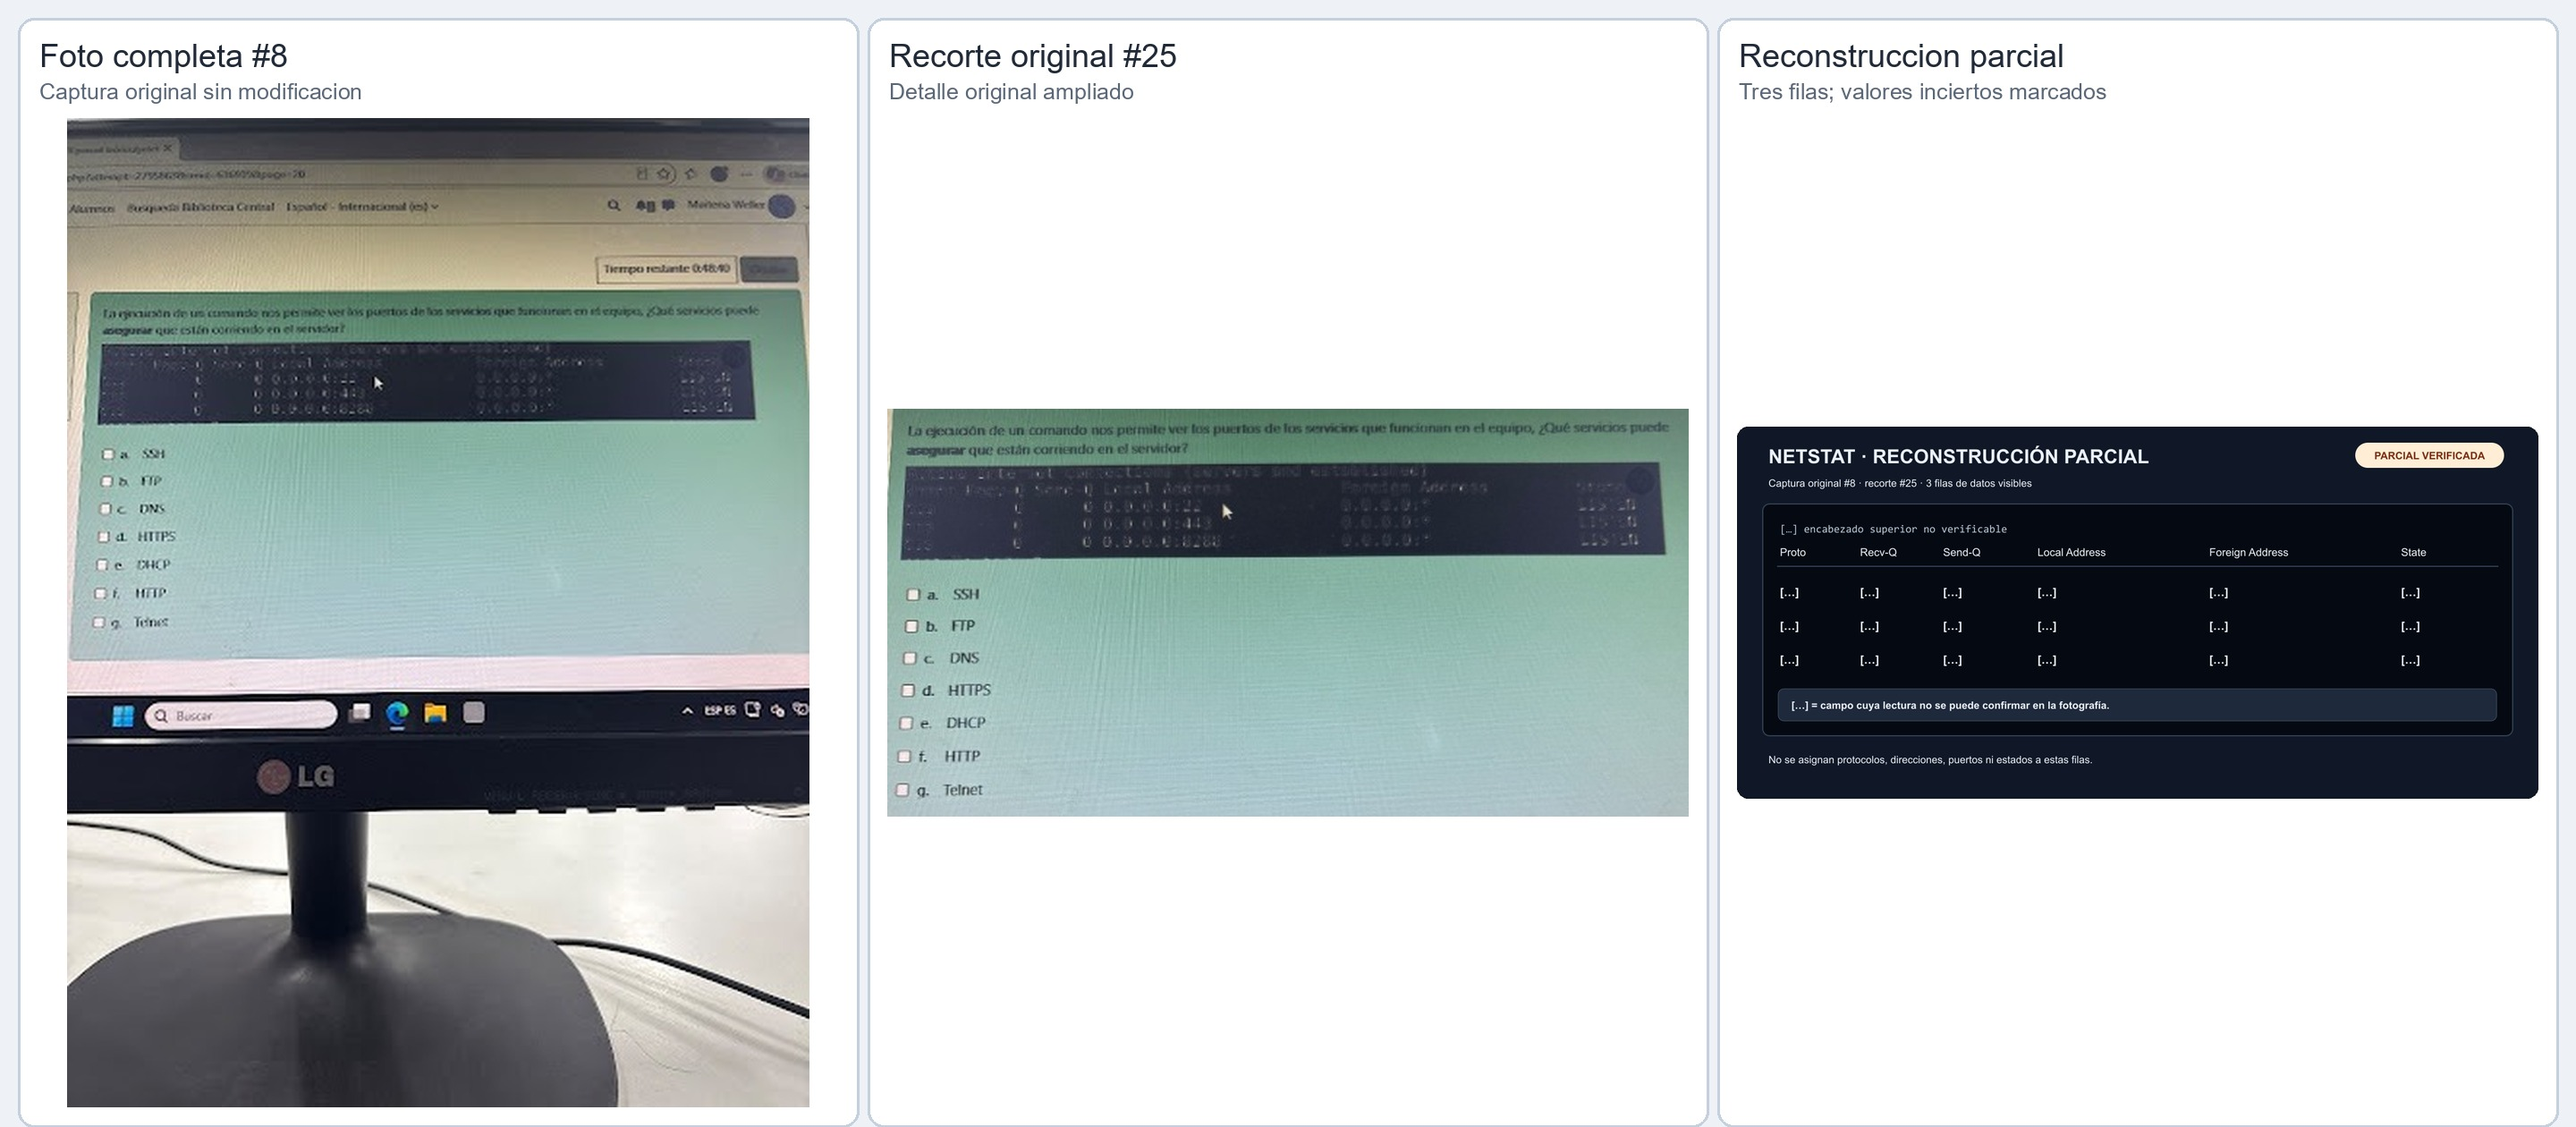
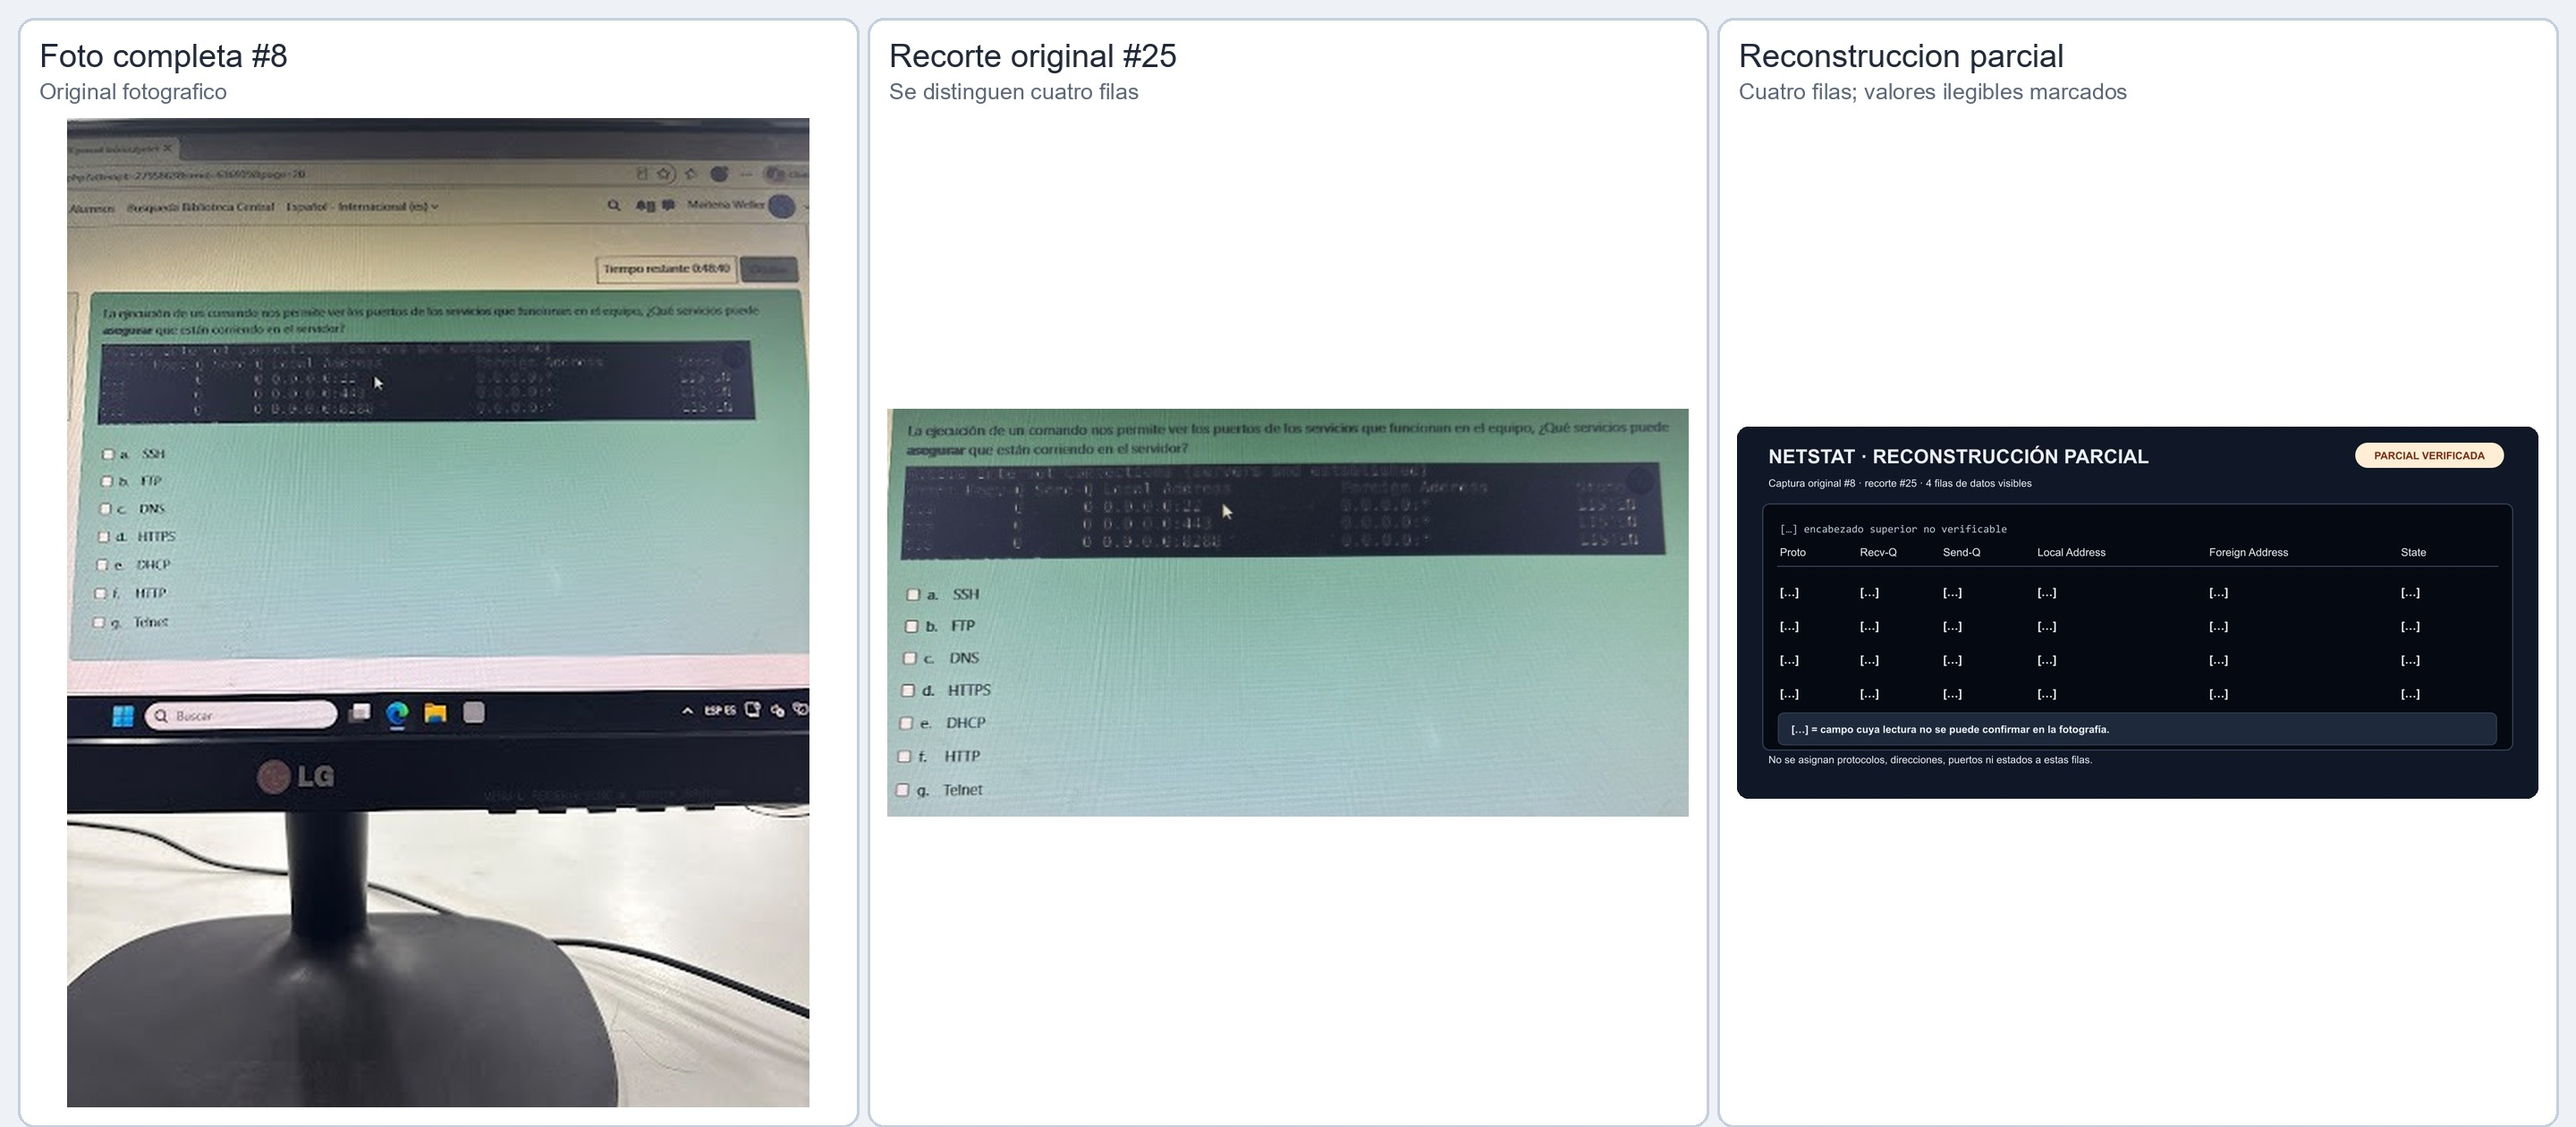
content: correct route and netstat reconstructions

diff --git a/content/redes-parcial-3-2026/AUDITORIA_IMAGENES.md b/content/redes-parcial-3-2026/AUDITORIA_IMAGENES.md
@@ -61,7 +61,7 @@ Busqué `redes_pregunta_5_reconstruccion_fiel.png` en el repositorio y los adjun
 
 Se reconstruyeron la geometría triangular de los tres routers y las cuatro LAN en sus posiciones relativas. El dibujo conserva tres equipos finales en la LAN izquierda, dos en la LAN superior derecha, uno y un switch en la LAN inferior izquierda, y un punto de acceso con dos portátiles en la LAN inferior derecha. Se incluyeron las siete subredes visibles: `192.168.10.0/24`, `.20.0/24`, `.30.0/24`, `.40.0/24`, `.50.0/24`, `.60.0/24` y `.70.0/24`. Los enlaces entre routers mantienen el trazo rojo observado; no se dibujaron puntas porque el sentido de las marcas no puede confirmarse. Las LAN de la parte inferior mantienen el trazo verde visible.
 
-La consola se transcribió en el orden de la foto: `Gateway of last resort is not set`; rutas RIP de `192.168.10.0/24`, `192.168.30.0/24` y `192.168.50.0/24`; redes directamente conectadas `.20.0/24`, `.40.0/24`, `.60.0/24`, `.70.0/24`; y las rutas locales `/32`. Se conservaron métricas `[120/1]`, próximos saltos, tiempos e interfaces que se leen en la tabla. La identificación del router consultado como Router2 proviene de la pregunta asociada y se marca como referencia cruzada.
+La tabla se cotejó directamente con la fotografía #12 y el recorte #21, no con las respuestas del cuestionario. Las rutas RIP son `192.168.10.0/24 via 192.168.20.1`, `192.168.30.0/24 via 192.168.70.2` y también `via 192.168.20.1`, y `192.168.50.0/24 via 192.168.70.2`; todas muestran `[120/1]` y se conservaron sus tiempos e interfaces visibles. Las rutas conectadas/locales verificadas son `.20.0/24 C` con `.20.2/32 L` por `Serial0/1/0`; `.40.0/24 C` con `.40.1/32 L` por `GigabitEthernet0/0/0`; `.60.0/24 C` con `.60.1/32 L` por `GigabitEthernet0/0/1`; y `.70.0/24 C` con `.70.1/32 L` por `Serial0/1/1`. La dirección local final se corrigió a `192.168.70.1/32`; `192.168.70.2` aparece como próximo salto de rutas R. La identificación del router consultado como Router2 proviene de la pregunta asociada y se marca como referencia cruzada.
 
 **No verificable:** nombres de los otros routers, nombres/modelos pequeños de varios dispositivos, interfaces rotuladas junto a los cables y sentido de las marcas rojas. Esos datos no se completaron. La tabla es legible; la incertidumbre queda principalmente en rótulos y flechas del diagrama.
 
@@ -71,11 +71,11 @@ La consola se transcribió en el orden de la foto: `Gateway of last resort is no
 
 **Reconstrucción de la foto:** [SVG parcial](assets/reconstrucciones/reconstruccion-netstat-parcial.svg). **Comparación:** [foto completa, recorte y reconstrucción parcial](assets/comparaciones/netstat-original-vs-reconstruccion-parcial.jpg).
 
-La captura permite verificar una consola oscura, los encabezados de seis columnas (`Proto`, `Recv-Q`, `Send-Q`, `Local Address`, `Foreign Address`, `State`) y tres filas, en ese orden. La línea superior del encabezado y los valores de las filas no tienen lectura confiable. Por eso cada campo de las tres filas aparece como `[…]`; no se asignaron protocolos, colas, direcciones, puertos ni estados.
+Al reabrir y ampliar el recorte #25 se cuentan **cuatro filas** debajo de los encabezados de seis columnas (`Proto`, `Recv-Q`, `Send-Q`, `Local Address`, `Foreign Address`, `State`). La reconstrucción ahora conserva las cuatro en el orden visible. La línea superior del encabezado y los valores de las filas no tienen lectura confiable. Por eso cada campo de las cuatro filas aparece como `[…]`; no se asignaron protocolos, colas, direcciones, puertos ni estados.
 
-**Variante recordada, solo para práctica de la pregunta 30:** [SVG](assets/reconstrucciones/netstat-variante-recordada-practica.svg). La etiqueta exacta es **VARIANTE RECONSTRUIDA PARA PRÁCTICA**. **Comparación:** [foto, recorte y variante recordada](assets/comparaciones/netstat-original-vs-variante-recordada.jpg). Representa únicamente TCP 22 LISTEN, TCP 443 LISTEN y UDP 8280 con estado vacío. No agrega direcciones ni colas y no se presenta como transcripción de la foto. La pregunta 29 no ofrece esa variante. Las respuestas correctas de ambas preguntas no se tocaron.
+**Variante recordada, solo para práctica de la pregunta 30:** [SVG](assets/reconstrucciones/netstat-variante-recordada-practica.svg). La etiqueta exacta es **VARIANTE RECONSTRUIDA PARA PRÁCTICA**. **Comparación:** [foto, recorte y variante recordada](assets/comparaciones/netstat-original-vs-variante-recordada.jpg). Tiene **tres filas**, que corresponden a los tres datos del escenario recordado: TCP 22 LISTEN, TCP 443 LISTEN y UDP 8280 con estado vacío. No agrega direcciones ni colas y no se presenta como transcripción de la foto. La pregunta 29 no ofrece esa variante. Las respuestas correctas de ambas preguntas no se tocaron.
 
-**Fidelidad:** parcial para la captura real; los encabezados y cantidad de filas se conservaron, pero los valores ilegibles permanecen desconocidos.
+**Fidelidad:** parcial para la captura real; los encabezados y las cuatro filas se conservaron, pero los valores ilegibles permanecen desconocidos. La variante práctica tiene tres filas y se identifica aparte del original.
 
 ## Validación y límites
 
